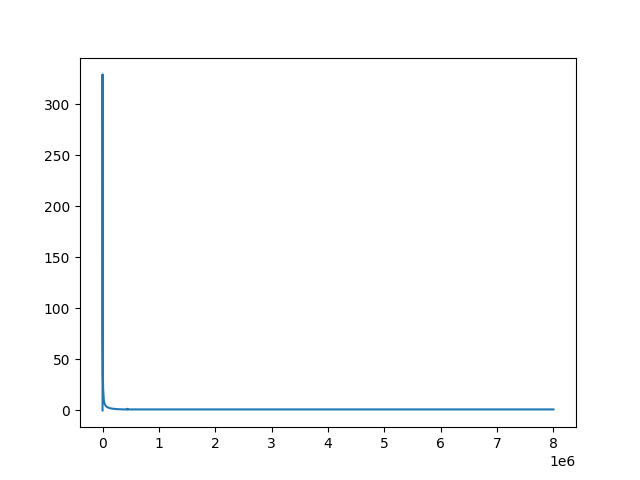
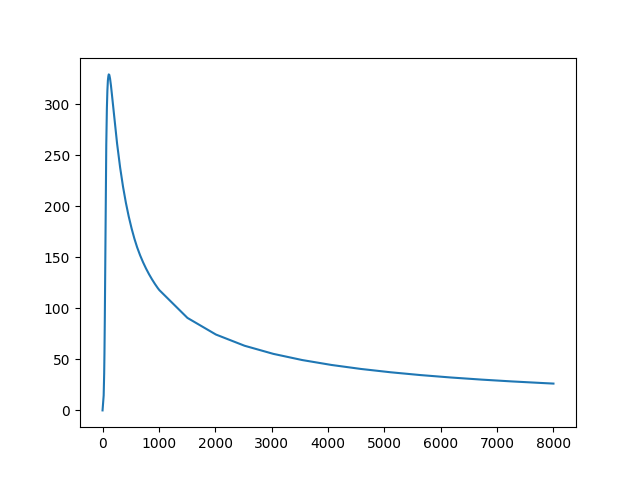
stoppingpower E

diff --git a/MCTDCRcode/TDCR_model_lib.py b/MCTDCRcode/TDCR_model_lib.py
@@ -266,12 +266,12 @@ def readBetaShape(rad,mode,trans):
         
     return e,dNdx
 
-e1 = np.linspace(0,8e6,800000) # eV
+e1 = np.linspace(0,8e3,8000) # eV
 e2 = np.linspace(0,8e3,800000) #keV
 doc = 'alpha_toulene.txt'
 spe = []
 spa = []
-for i in range(800000):
+for i in range(8000):
     e = e1[i]
     #e_2 = e2[i]
     spe.append(stoppingpowerE(e,rho=0.866))
